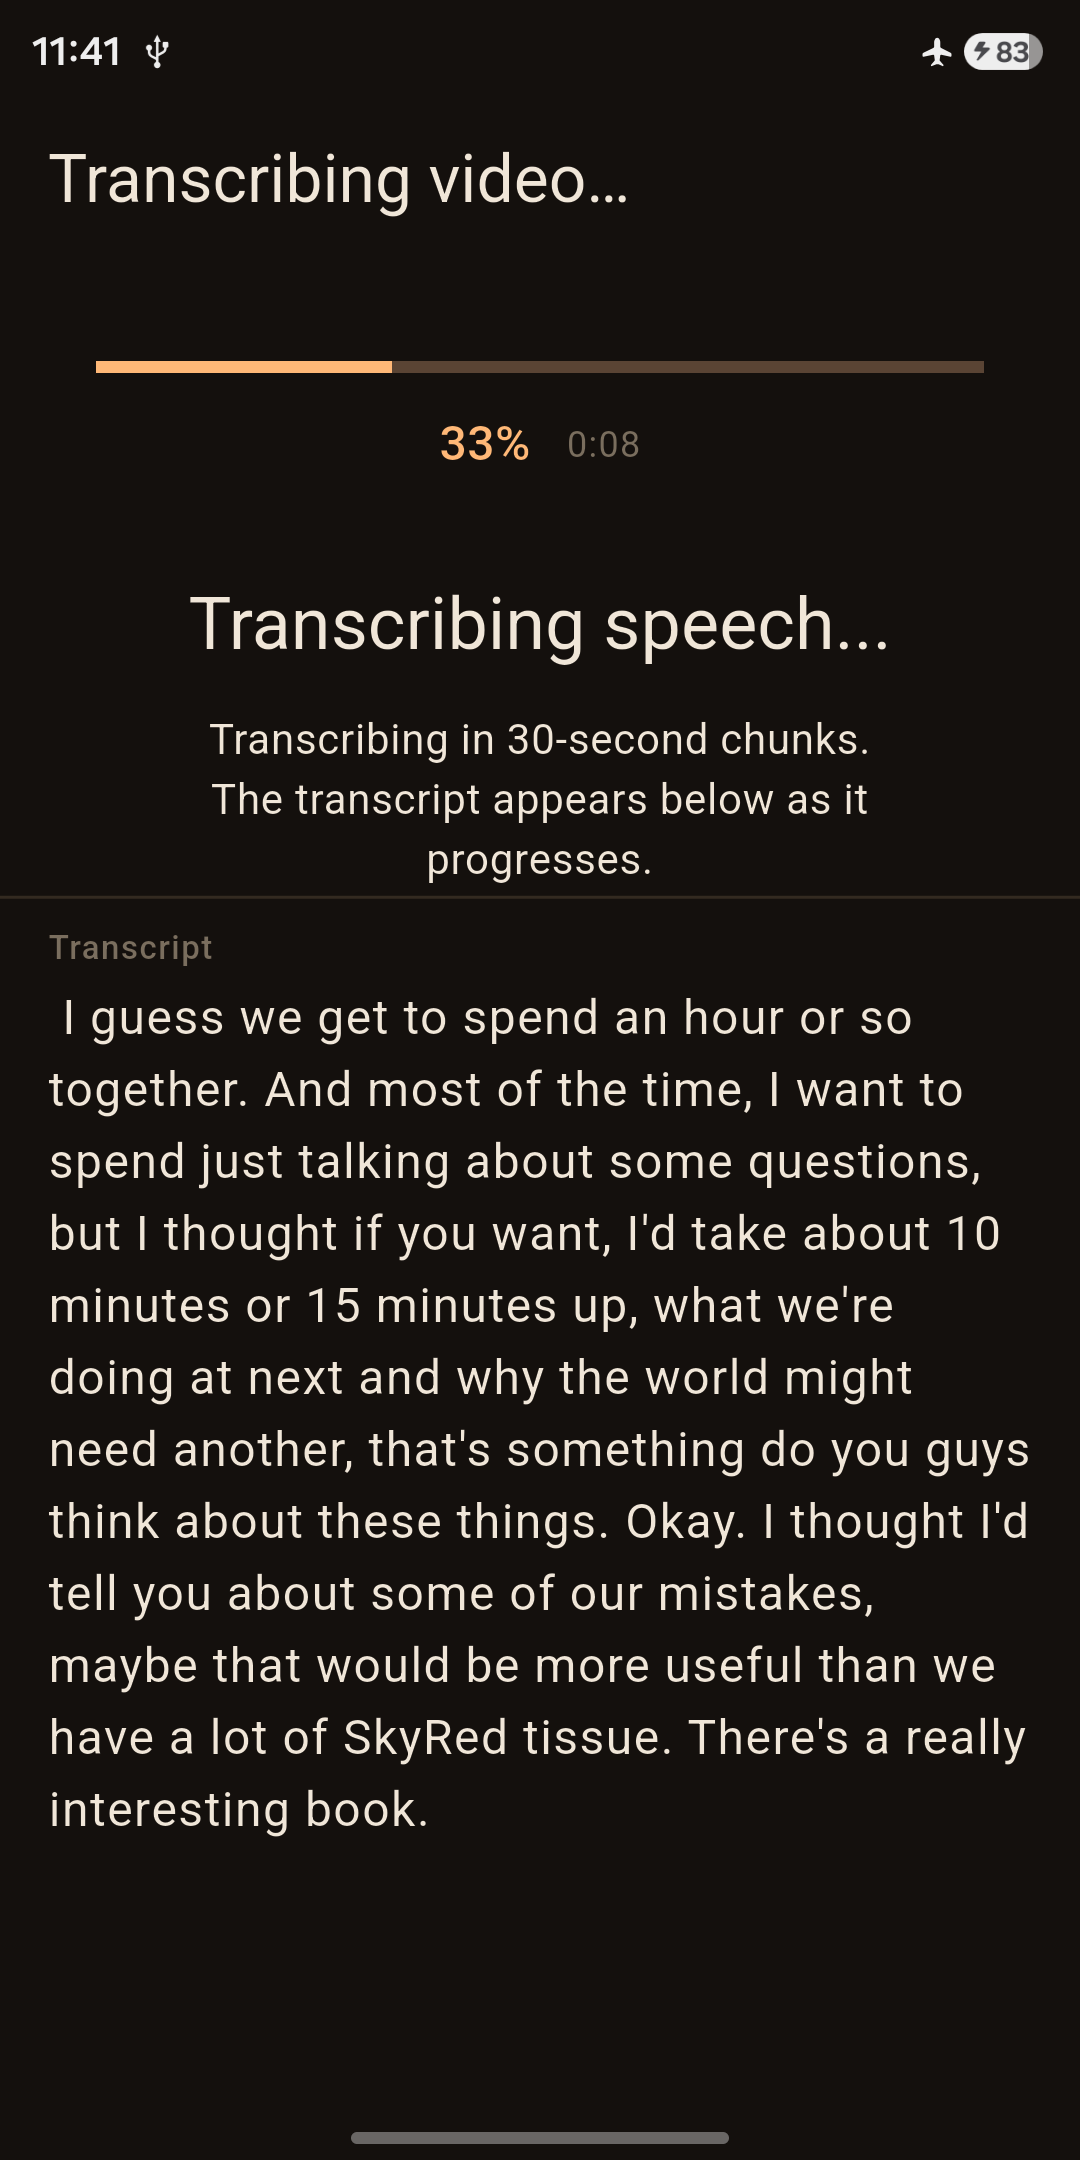
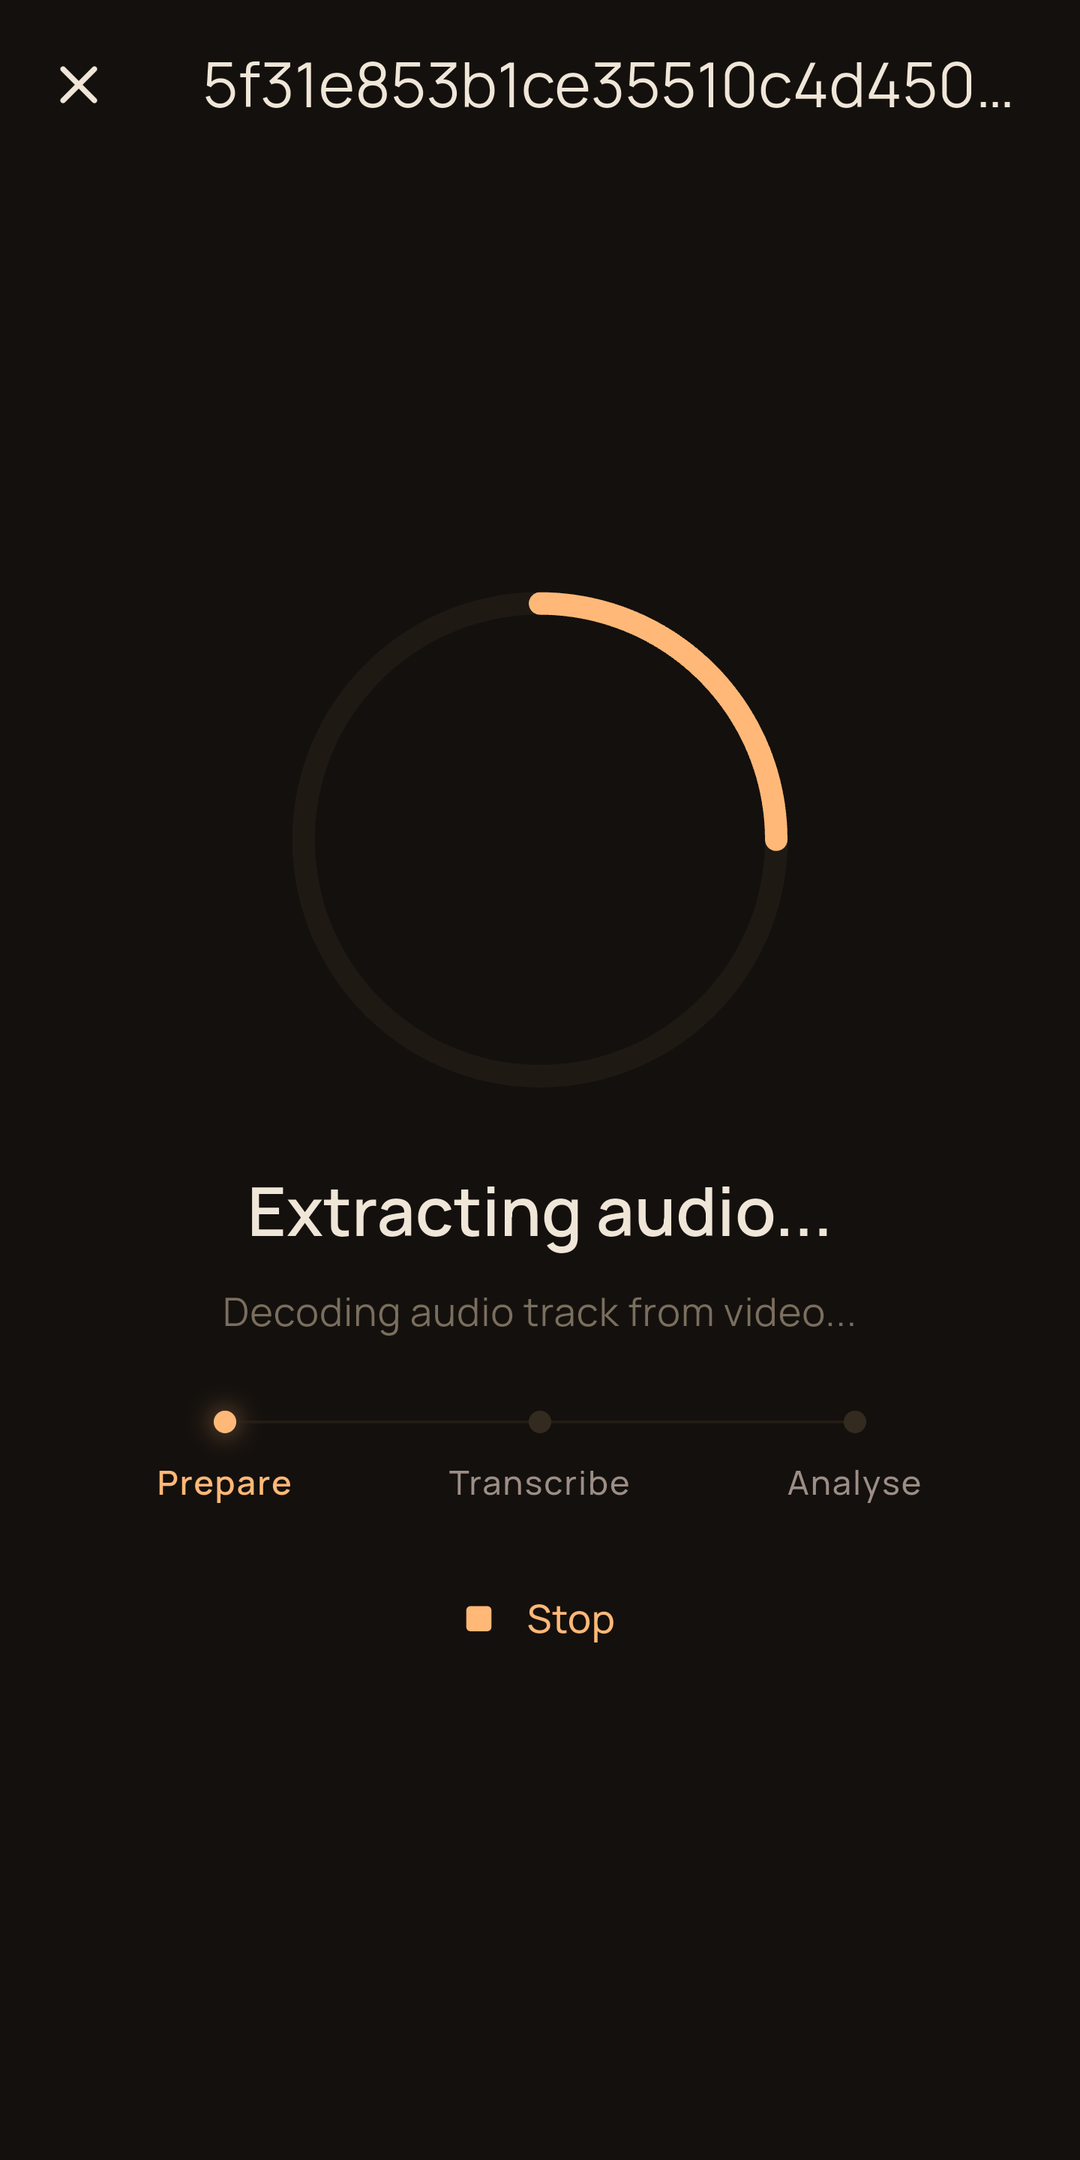
feat(web): polished transcription stages and export options on the video card

diff --git a/index.html b/index.html
@@ -171,8 +171,8 @@
 
     <div class="feature card reveal">
       <div class="feature-media">
-        <img class="zoomable" src="assets/screenshots/transcription.png" alt="Live transcription screen" loading="lazy">
-        <img class="zoomable" src="assets/screenshots/dubb-new-02.png" alt="Dubbing subtitles: burn subtitles into the video, maximum rows per subtitle" loading="lazy">
+        <img class="zoomable" src="assets/screenshots/transcription4.png" alt="Transcribing a video: the transcript streams in live, in 30-second chunks" loading="lazy">
+        <img class="zoomable" src="assets/screenshots/transcription5.png" alt="Export options: audiobook, dub audio, dubbed video, captions, .srt subtitles and DOCX" loading="lazy">
       </div>
       <div class="feature-icon">🎙</div>
       <h3>Video transcription &amp; dubbing</h3>
@@ -182,7 +182,6 @@
     <div class="feature card reveal">
       <div class="feature-media">
         <img class="zoomable" src="assets/screenshots/RAG01.png" alt="Ask AI with a book attached in Kenosis AI, with suggested questions about it" loading="lazy">
-        <img class="zoomable" src="assets/screenshots/features02.png" alt="Document search (RAG) and TTS voices" loading="lazy">
       </div>
       <div class="feature-icon">🔎</div>
       <h3>RAG : chat with your documents</h3>
